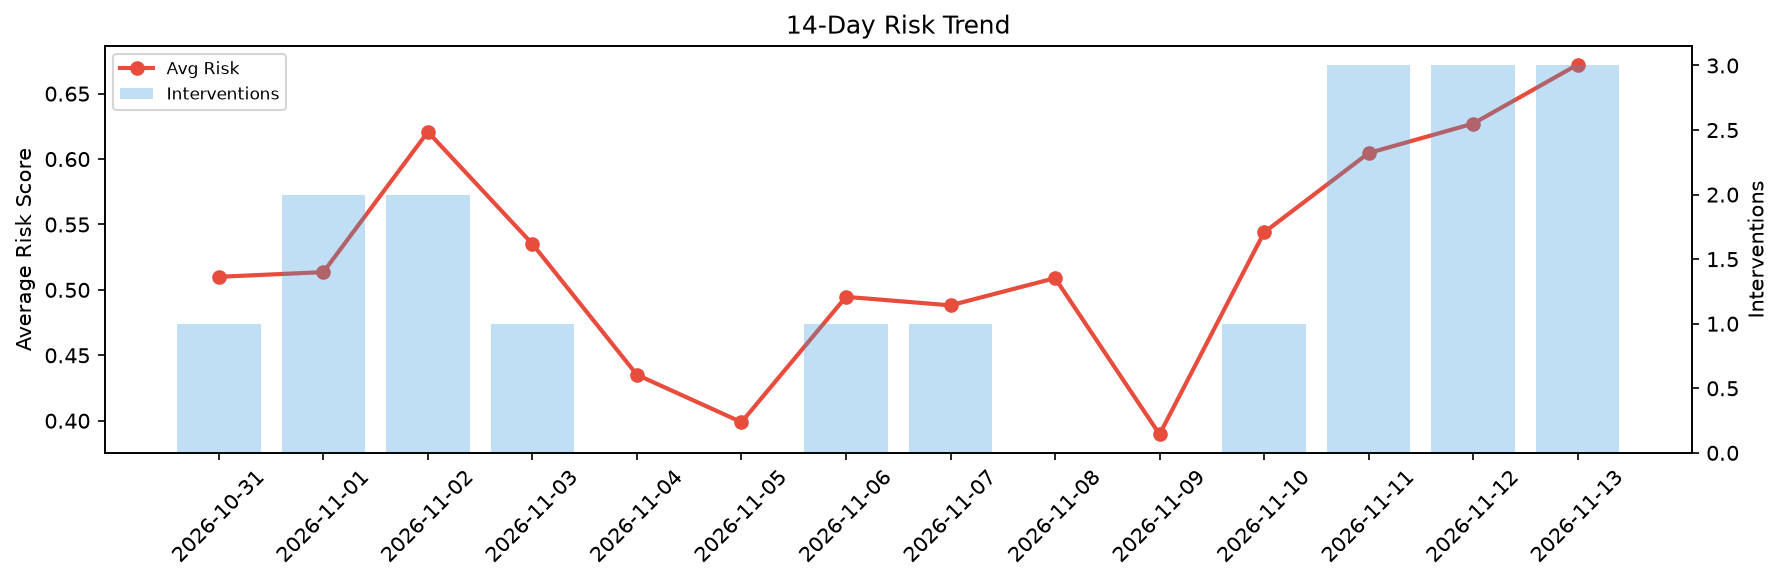
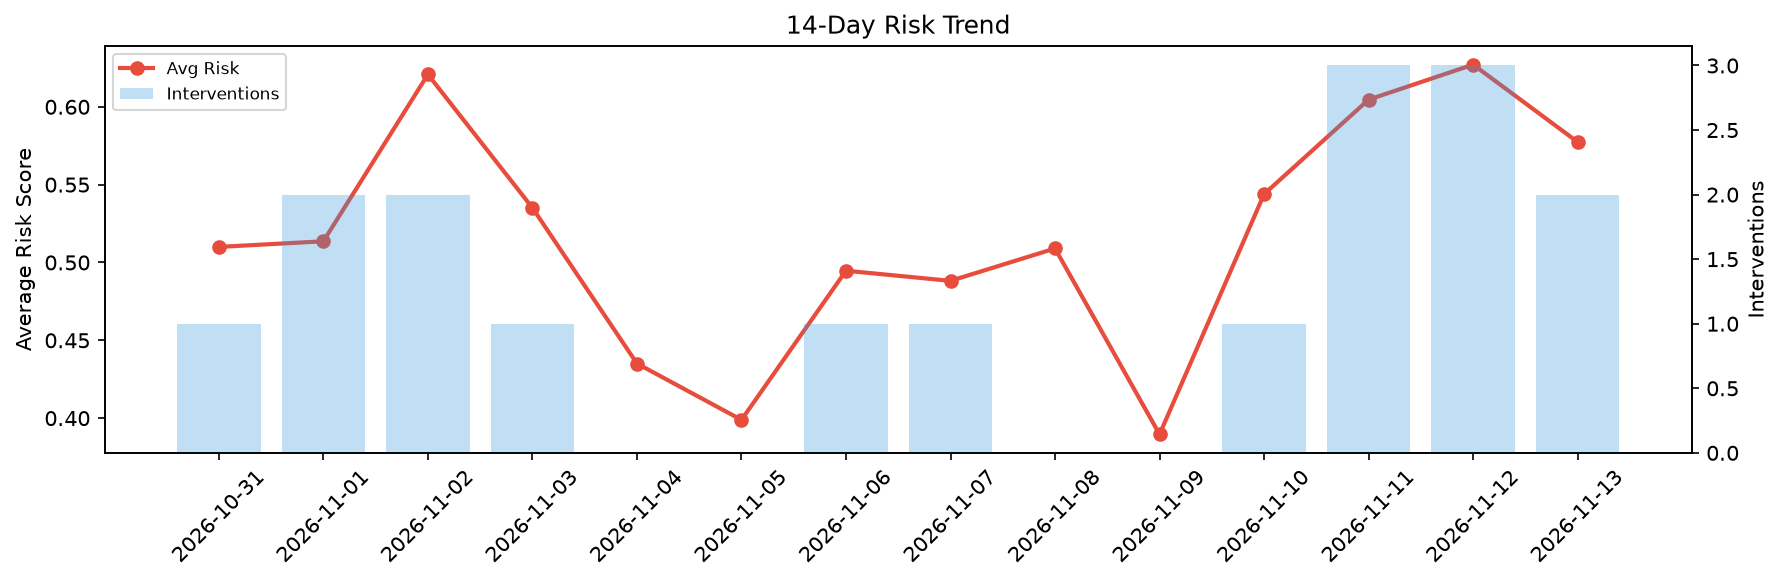
agent-improvement: daily cycle 2026-11-13T16:22

diff --git a/logs/2026-11-13.md b/logs/2026-11-13.md
@@ -1,6 +1,6 @@
 # Agent Improvement Report — 2026-11-13
 
-**Cycle ID:** `93f7b544` | **Avg Risk:** 0.6722 | **Interventions:** 3/4
+**Cycle ID:** `b1b780f1` | **Avg Risk:** 0.5774 | **Interventions:** 2/4
 
 ![Dashboard](2026-11-13_dashboard.png)
 
@@ -10,18 +10,18 @@
 
 | Domain | Risk Score | Decision | Alerts |
 |--------|-----------|----------|--------|
-| code_review | 0.4816 | monitor | coverage |
-| incident_response | 0.6839 | intervene | mttr |
-| data_pipeline | 0.7804 | intervene | freshness, schema_drift |
-| deployment | 0.7429 | intervene | rollback_rate, canary_error |
+| code_review | 0.3721 | monitor | coverage |
+| incident_response | 0.3632 | monitor | blast_radius |
+| data_pipeline | 0.7363 | intervene | freshness, volume_anomaly |
+| deployment | 0.838 | intervene | canary_error, latency_p99 |
 
 ## Delta vs Yesterday
 
 | Domain | Today | Yesterday | Change |
 |--------|-------|-----------|--------|
-| code_review | 0.4816 | 0.6493 | 📉 -25.8% |
-| incident_response | 0.6839 | 0.5192 | 📈 31.7% |
-| data_pipeline | 0.7804 | 0.6514 | 📈 19.8% |
-| deployment | 0.7429 | 0.6886 | 📈 7.9% |
+| code_review | 0.3721 | 0.6493 | 📉 -42.7% |
+| incident_response | 0.3632 | 0.5192 | 📉 -30.0% |
+| data_pipeline | 0.7363 | 0.6514 | 📈 13.0% |
+| deployment | 0.838 | 0.6886 | 📈 21.7% |
 
 **Refinement:** `{'adjustment': 'tighten_thresholds', 'trend': 'degrading', 'window': 4}`
